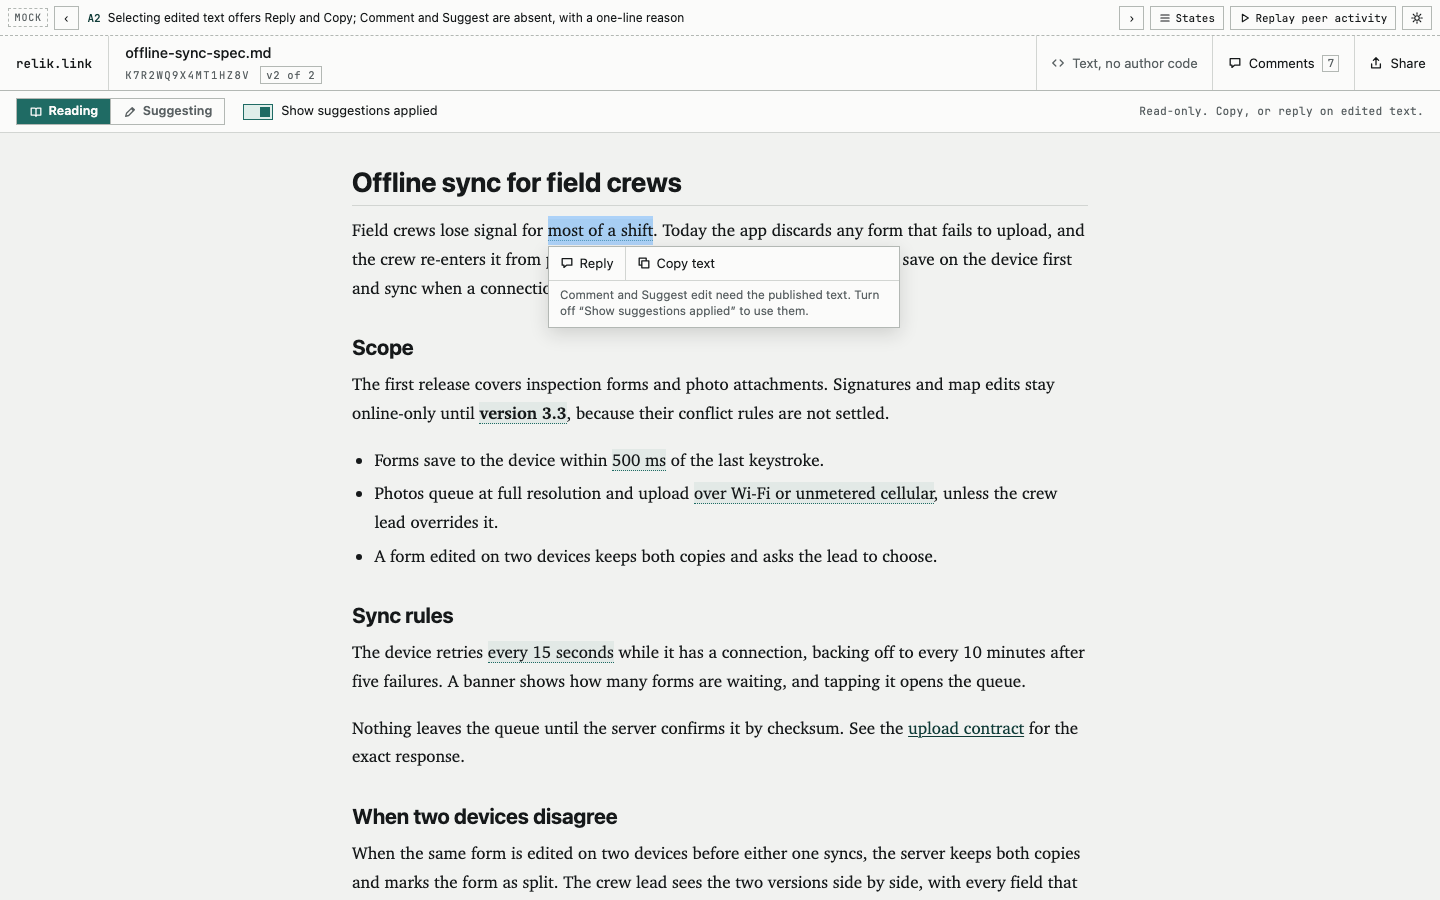
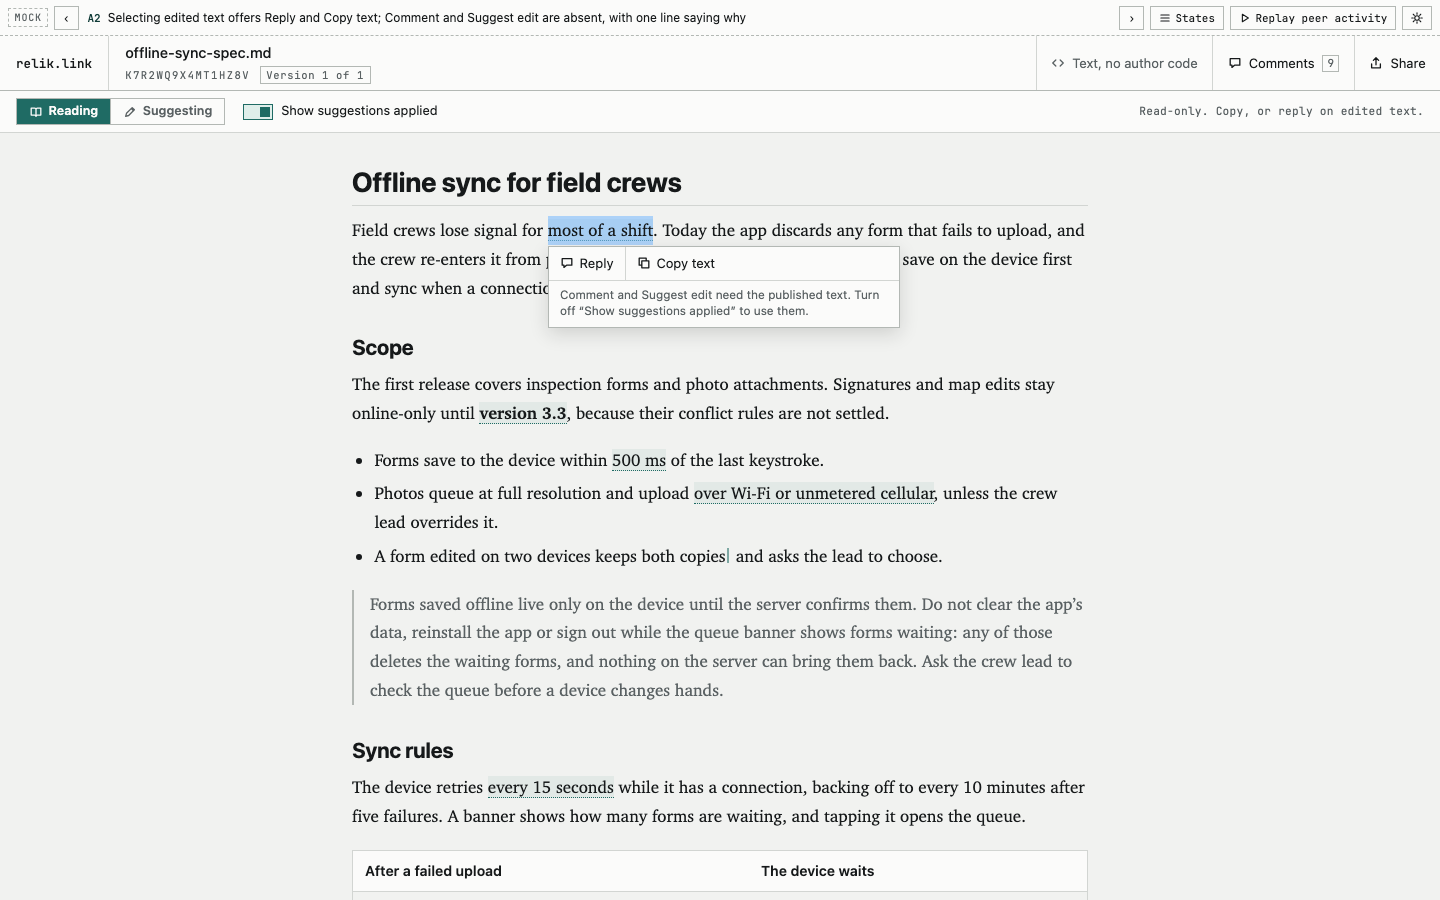
Revise the suggestions mock to the plan 3.6 state list
- Drop the HTML and JSX states (H1-H3, J1-J2), the Unsent tray (U1) and the chooser; keep presence (P1-P3, N3, peer carets in S1).
- Add R5 hostile replacement, every S6 refusal (S6a-S6h), S7 Not posted with Retry and Discard, S9a-S9e unavailable reasons, O1 every 3.3 state on the version 1 page, O2 the clean version 2 page.
- A1 shows the inserted link with no href and its title; L1 shows the fallback sentence and the cannot-show note with no mark.
- Regenerate mock-shots: 41 screenshots from an isolated headless shell over loopback.

diff --git a/docs/plans/suggested-edits/mockup.html b/docs/plans/suggested-edits/mockup.html
@@ -446,7 +446,7 @@ function docMD() {
     },
     blocks: [
       B('h1', 'h1', [T('Offline sync for field crews')]),
-      B('p1', 'p', [T('Field crews lose signal for '), C('c-shift'), T('. Today the app discards any form that fails to upload, and the crew re-enters it from paper that evening. This spec makes every form save on the device first and sync when a connection returns.')]),
+      B('p1', 'p', [T('Field crews lose signal for '), C('c-shift'), T('. Today the app discards any form that fails to upload, and the crew re-enters it from paper that evening. This spec makes every form save on the device first and sync when a connection returns'), C('c-link'), T('.')]),
       B('h2a', 'h2', [T('Scope')]),
       B('p2', 'p', [T('The first release covers '), C('c-forms'), T(' and photo attachments. Signatures and map edits stay online-only until '), C('c-version', 'strong'), T(', because their conflict rules are not settled.')]),
       B('li1', 'li', [T('Forms save to the device within '), C('c-200'), T(' of the last keystroke.')], { list: 'u1' }),
@@ -463,7 +463,7 @@ function docMD() {
       B('t2b', 'td', [T('10 minutes')], { in: 'tr2' }),
       B('t3a', 'td', [T('Signal returns')], { in: 'tr3' }),
       B('t3b', 'td', [T('Retries at once')], { in: 'tr3' }),
-      B('p4', 'p', [T('Nothing leaves the queue until the server confirms it by checksum. See the '), T('upload contract', 'a'), T(' for the exact response'), C('c-link'), T('.')]),
+      B('p4', 'p', [T('Nothing leaves the queue until the server confirms it by checksum. See the '), T('upload contract', 'a'), T(' for the exact response.')]),
       B('h2c', 'h2', [C('c-hostile')]),
       B('p5', 'p', [T(P5)]),
       B('q2', 'blockquote', [T(CALLOUT)], { repeats: true }),
@@ -479,8 +479,8 @@ function docMD() {
       'c-mine': { author: 'you', block: 'li2', del: 'over Wi-Fi only', ins: 'over Wi-Fi or unmetered cellular', time: '3 min ago', replies: [] },
       'c-del': { author: 'lena', block: 'li3', del: ', flags the form in red,', ins: '', time: '48 min ago', replies: [
         { who: 'priya', time: '35 min ago', body: 'Agreed. Red alone fails for colour-blind leads, and the split icon already says it.' }] },
-      'c-link': { author: 'marcus', block: 'p4', del: '', ins: ' and the [error codes](https://larkspur.dev/specs/upload#errors)', exact: 'e', mode: 'after',
-        source: ['', ' and the [error codes](https://larkspur.dev/specs/upload#errors)'], applied: [' and the ', { a: 'error codes' }], time: '27 min ago', replies: [] },
+      'c-link': { author: 'marcus', block: 'p1', del: '', ins: ', as logged in the [March field trial](https://larkspur.dev/field/march-trial)', exact: 's', mode: 'after',
+        source: ['', ', as logged in the [March field trial](https://larkspur.dev/field/march-trial)'], applied: [', as logged in the ', { a: 'March field trial' }], time: '27 min ago', replies: [] },
       'c-15': { author: 'priya', group: 'g-retry', block: 'p3', del: 'every 30 seconds', ins: 'every 15 seconds', time: '50 min ago', replies: [
         { who: 'dana', time: '31 min ago', body: '15 s doubles the radio wake-ups. Do we have a battery number for it?' }] },
       'c-60': { author: 'marcus', group: 'g-retry', block: 'p3', del: 'every 30 seconds', ins: 'every minute', time: '44 min ago', replies: [] },
@@ -529,10 +529,11 @@ const OUTCOMES = {
   'c-shift': { badge: 'Accepted in v2', tone: 'ok', chip: 'accepted in v2', note: 'Applied. Multi-day gaps get their own section next.' },
   'c-60': { badge: 'Accepted in v2', tone: 'ok', chip: 'accepted in v2', note: 'A minute keeps the radio quiet, and the battery run backs it.' },
   'c-15': { badge: 'Superseded', tone: 'quiet', chip: 'superseded', note: 'Marcus\u2019s \u201cevery minute\u201d shipped in version 2 instead.' },
-  'c-5s': { badge: 'Seen by the publisher, not applied yet', tone: 'wait', chip: 'seen', note: 'Worth doing once the radio driver reports signal changes.' },
+  'c-5s': { badge: 'Not taken', tone: 'quiet', chip: 'not taken', note: 'The radio driver already waits for a stable signal.' },
   'c-version': { badge: 'Not taken', tone: 'quiet', chip: 'not taken', note: 'Signatures still go offline in 3.2. Keeping it.' },
   'c-200': { badge: 'The publisher replied', tone: 'wait', chip: 'replied', note: 'Is 500 ms from the Tab A8 run or the Pixel? I will decide after both.' },
-  'c-mine': { badge: 'No answer from the publisher is visible to you', tone: 'soft', chip: 'no answer', note: null },
+  'c-mine': { badge: 'Seen by the publisher, not applied yet', tone: 'wait', chip: 'seen', note: 'Needs a data-cost check with the carrier first.' },
+  'c-forms': { badge: 'No answer from the publisher is visible to you', tone: 'soft', chip: 'no answer', note: null },
   'c-del': { badge: 'Withdrawn', tone: 'quiet', chip: 'withdrawn', note: null },
   'c-link': { badge: 'Closed by the publisher', tone: 'quiet', chip: 'closed', note: null },
 };
@@ -566,7 +567,7 @@ S('R4', 'Reading', 'Your own pending suggestion, styled as yours, with Withdraw 
 S('R5', 'Reading', 'A hostile replacement containing <script> and ** markup, shown as literal text inline and in its card', { extra: ['c-hostile'], after: () => openCardAt('c-hostile', { pinned: true }) });
 S('A1', 'Applied', '\u201cShow suggestions applied\u201d: clean text with faint marks; the inserted link has no href, only its title', { applied: true, after: () => pinLinkNote() });
 S('A2', 'Applied', 'Selecting edited text offers Reply and Copy text; Comment and Suggest edit are absent, with one line saying why', { applied: true, after: () => { selectInBlock('p1', 'most of a shift'); selectionOffer(); } });
-S('S1', 'Suggesting', 'Suggesting on: the mode bar, your caret and the hint, with two peer carets. Click any paragraph and type.', { mode: 'suggesting', peers: MD_PEERS_S1, after: () => placeCaret('p3', 112) });
+S('S1', 'Suggesting', 'Suggesting on: the mode bar, your caret and the hint, with two peer carets. Click any paragraph and type.', { mode: 'suggesting', peers: MD_PEERS_S1, after: () => placeCaret('p2', 96) });
 S('S2', 'Suggesting', 'Typing: the draft, \u201cEsc cancels \u00b7 Leave the paragraph to post\u201d, and the counters near the struck limit', { mode: 'suggesting', after: seedS2 });
 S('S2-dark', 'Suggesting', 'S2 in dark mode', { label: 'S2', theme: 'dark', mode: 'suggesting', after: seedS2 });
 S('S3', 'Suggesting', 'The selection offer with Suggest edit', { after: () => { selectInBlock('p3', 'A banner shows how many forms are waiting'); selectionOffer(); } });
@@ -583,11 +584,11 @@ S('S6h', 'Suggesting', 'Refused on leaving: a passage that repeats in the source
 S('S7', 'Suggesting', '\u201cNot posted\u201d with Retry and Discard, and a note that leaving the page will ask first', { mode: 'suggesting', after: () => { seedDraft({ block: 'p1', find: 'from paper that evening', ins: 'from paper at the end of the shift' }); commit('left', { fail: true }); } });
 S('S8', 'Suggesting', 'Signed out: Suggest edit leads to sign-in', { signedIn: false, after: () => { selectInBlock('p3', 'tapping it opens the queue'); selectionOffer(); const b = V.offer && V.offer.querySelector('[data-suggest]'); if (b) b.click(); } });
 S('S9a', 'Suggesting', 'Suggesting unavailable: an older version', { version: 1, versions: 2, active: [], unavailable: 'older' });
-S('S9b', 'Suggesting', 'Suggesting unavailable: the file is over 1 MiB', { unavailable: 'too_large', setup: (v) => { v.doc.filename = 'field-ops-handbook.md'; v.doc.accession = 'M3QK9D2XW7RT4PZ1'; } });
-S('S9c', 'Suggesting', 'Suggesting unavailable: CR or NUL in the file', { cls: 'code', unavailable: 'has_cr' });
-S('S9d', 'Suggesting', 'Suggesting unavailable: the file is not UTF-8', { cls: 'code', unavailable: 'not_utf8', setup: (v) => { v.doc.filename = 'drain-queue.legacy.ts'; v.doc.accession = 'W8NP2KT6QD4XM9RE'; } });
-S('S9e', 'Suggesting', 'Suggesting unavailable: the layout could not be matched to the source', { unavailable: 'layout' });
-S('O1', 'Outcomes', 'The version 1 page after version 2 lands: every state from plan 3.3 on the changes and in the panel, read-only', { version: 1, versions: 2, outcomes: true, sidebar: true, unavailable: 'older' });
+S('S9b', 'Suggesting', 'Suggesting unavailable: the file is over 1 MiB', { active: [], unavailable: 'too_large', setup: (v) => { v.doc.filename = 'field-ops-handbook.md'; v.doc.accession = 'M3QK9D2XW7RT4PZ1'; } });
+S('S9c', 'Suggesting', 'Suggesting unavailable: CR or NUL in the file', { cls: 'code', active: [], unavailable: 'has_cr' });
+S('S9d', 'Suggesting', 'Suggesting unavailable: the file is not UTF-8', { cls: 'code', active: [], unavailable: 'not_utf8', setup: (v) => { v.doc.filename = 'drain-queue.legacy.ts'; v.doc.accession = 'W8NP2KT6QD4XM9RE'; } });
+S('S9e', 'Suggesting', 'Suggesting unavailable: the layout could not be matched to the source', { active: [], unavailable: 'layout' });
+S('O1', 'Outcomes', 'The version 1 page after version 2 lands: every state from plan 3.3 on the changes and in the panel, read-only', { version: 1, versions: 2, outcomes: true, sidebar: true, unavailable: 'older', extra: ['c-forms'] });
 S('O2', 'Outcomes', 'The version 2 page: clean, no version 1 suggestions, Suggesting available', { version: 2, versions: 2, active: [], setup: bakeV2 });
 S('C1', 'Code', 'A multi-line draft using Enter and Tab, with + rows in the gutter so numbering stays aligned', { cls: 'code', mode: 'suggesting', after: () => seedDraft({ block: 'file', find: 'failures += 1;', after: true, ins: '\n\t\t\tif (failures === 5) notifyLead(form.id);' }) });
 S('C2', 'Code', 'The code applied view', { cls: 'code', applied: true });
@@ -1688,8 +1689,8 @@ function conflictCard(gid) {
   return h('div', { class: 'popover popover-card sg-card is-conflict', role: 'dialog', 'aria-label': `${g.members.length} suggestions on one passage` },
     h('div', { class: 'card-head' }, h('span', { class: 'card-who' }, `${g.members.length} suggestions on this passage`)),
     h('div', { class: 'card-row' }, h('span', { class: 'k' }, 'Original'), h('span', { class: 'v' }, h('del', { class: 'sg-del' }, g.del))),
-    members,
     h('p', { class: 'card-note' }, `The applied view shows ${first(def.author)}\u2019s (posted first).`),
+    members,
     h('div', { class: 'popover-tools' }, h('button', { type: 'button', class: 'popover-action is-quiet is-end', onclick: closeCard }, 'Close')));
 }
 
@@ -1867,10 +1868,10 @@ function renderThread() {
       item.append(h('p', { class: 'comment-body' }, fallbackBody(ch)),
         h('p', { class: 'comment-sub' }, 'This comment points at part of the document that this page cannot show.'));
     } else {
-      item.append(h('div', { class: 'comment-head', style: 'margin:0 0 .3rem' }, stateEl(id).firstChild, ch.author === 'you' ? h('span', { class: 'comment-badge' }, 'yours') : null),
+      item.append(...[h('div', { class: 'comment-head', style: 'margin:0 0 .3rem' }, stateEl(id).firstChild, ch.author === 'you' ? h('span', { class: 'comment-badge' }, 'yours') : null),
         h('p', { class: 'comment-body' }, ch.del ? h('del', { class: 'sg-del' }, ch.del) : null, ch.del && ch.ins ? ' ' : null, ch.ins ? h('ins', { class: 'sg-ins' }, ch.ins) : null),
         ch.group ? h('p', { class: 'comment-sub' }, `One of ${V.groups[ch.group].members.length} suggestions on \u201c${V.groups[ch.group].del}\u201d`) : null,
-        ch.also && ch.also.length ? h('p', { class: 'comment-sub' }, 'Also suggested by ' + ch.also.map((k) => PEOPLE[k].name).join(', ')) : null);
+        ch.also && ch.also.length ? h('p', { class: 'comment-sub' }, 'Also suggested by ' + ch.also.map((k) => PEOPLE[k].name).join(', ')) : null].filter(Boolean));
       const out = V.outcomes && V.outcomes[id];
       if (out && out.note) item.append(h('ol', { class: 'comment-replies' }, h('li', null, h('div', { class: 'comment-head' }, h('span', { class: 'comment-name' }, PEOPLE.dana.name), h('span', { class: 'comment-badge is-soft' }, 'publisher')), h('p', { class: 'comment-body' }, out.note))));
     }
